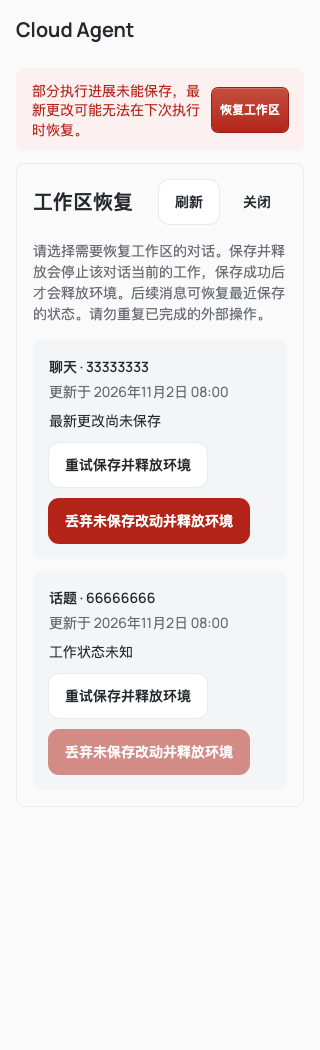
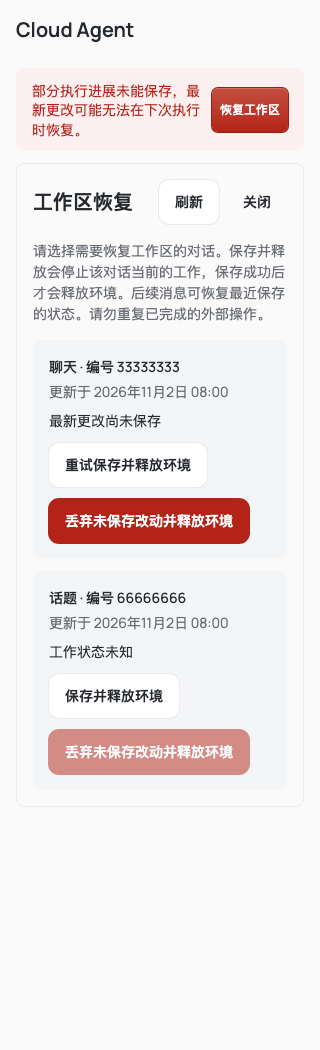
fix(web): confirm workspace interruptions and cover API contracts

Changed region(s): [[0.1875, 0.64, 0.5938, 0.6705], [0.25, 0.5486, 0.5938, 0.579], [0.25, 0.3352, 0.5625, 0.3657]]

diff --git a/apps/web/src/features/agents/cloud/cloud-workspace-recovery.test.tsx b/apps/web/src/features/agents/cloud/cloud-workspace-recovery.test.tsx
@@ -89,7 +89,7 @@ it("offers recovery without a release-failure marker and does not mutate on open
   expect(screen.queryByRole("region", { name: "Workspace recovery" })).toBeNull();
   fireEvent.click(await screen.findByRole("button", { name: "Recover workspace" }));
   await screen.findByRole("region", { name: "Workspace recovery" });
-  await screen.findByRole("button", { name: "Retry save and release" });
+  await screen.findByRole("button", { name: "Save and release" });
   expect(fixture.read).toHaveBeenCalledWith(AGENT, { limit: 20 });
   expect(fixture.readStatus).not.toHaveBeenCalled();
   expect(fixture.release).not.toHaveBeenCalled();
@@ -105,7 +105,7 @@ it("captures the allocation generation and accepts only one release while busy",
       }),
   );
   const item = await renderPanel();
-  const button = within(item).getByRole("button", { name: "Retry save and release" });
+  const button = within(item).getByRole("button", { name: "Save and release" });
   act(() => {
     fireEvent.click(button);
     fireEvent.click(button);
@@ -144,6 +144,27 @@ it("requires a second confirmation to discard and preserves the selected generat
   );
 });
 
+it.each(["running", "queued", "unknown"] as const)(
+  "confirms before saving and releasing a %s conversation",
+  async (taskState) => {
+    const fixture = setup([row({ taskState })]);
+    const item = await renderPanel();
+    const save = within(item).getByRole("button", { name: "Save and release" });
+    fireEvent.click(save);
+    let dialog = await screen.findByRole("alertdialog");
+    expect(dialog.textContent).toContain("interrupts its current execution");
+    expect(fixture.readStatus).not.toHaveBeenCalled();
+    expect(fixture.release).not.toHaveBeenCalled();
+    fireEvent.click(within(dialog).getByRole("button", { name: "Cancel" }));
+    await waitFor(() => expect(screen.queryByRole("alertdialog")).toBeNull());
+    expect(fixture.release).not.toHaveBeenCalled();
+    fireEvent.click(save);
+    dialog = await screen.findByRole("alertdialog");
+    fireEvent.click(within(dialog).getByRole("button", { name: "Save and release" }));
+    await waitFor(() => expect(fixture.release).toHaveBeenCalledExactlyOnceWith(SANDBOX, { environmentGeneration: 2 }));
+  },
+);
+
 it("refuses a replacement environment even when an old discard confirmation stays open", async () => {
   const fixture = setup([row({ lifecycle: "releasing", lastErrorCode: "workspace_save_failed", canDiscard: true })]);
   const item = await renderPanel();
@@ -161,15 +182,15 @@ it("reads back after an uncertain mutation and never automatically resends it", 
   const fixture = setup();
   fixture.release.mockRejectedValueOnce(new TypeError("private upstream detail"));
   const item = await renderPanel();
-  fireEvent.click(within(item).getByRole("button", { name: "Retry save and release" }));
+  fireEvent.click(within(item).getByRole("button", { name: "Save and release" }));
   await screen.findByText(/recovery result could not be confirmed/);
   await waitFor(() => expect(fixture.readStatus).toHaveBeenCalledTimes(2));
   expect(fixture.release).toHaveBeenCalledOnce();
   expect(document.body.textContent).not.toContain("private upstream detail");
   await waitFor(() =>
-    expect(within(item).getByRole("button", { name: "Retry save and release" })).toHaveProperty("disabled", false),
+    expect(within(item).getByRole("button", { name: "Save and release" })).toHaveProperty("disabled", false),
   );
-  fireEvent.click(within(item).getByRole("button", { name: "Retry save and release" }));
+  fireEvent.click(within(item).getByRole("button", { name: "Save and release" }));
   await waitFor(() => expect(fixture.release).toHaveBeenCalledTimes(2));
   expect(fixture.readStatus).toHaveBeenCalledTimes(3);
 });
@@ -178,7 +199,7 @@ it("does not mutate when the fresh allocation status cannot be read", async () =
   const fixture = setup();
   fixture.readStatus.mockRejectedValue(new Error("private status detail"));
   const item = await renderPanel();
-  fireEvent.click(within(item).getByRole("button", { name: "Retry save and release" }));
+  fireEvent.click(within(item).getByRole("button", { name: "Save and release" }));
   await screen.findByText(/Workspace status could not be read/);
   expect(fixture.release).not.toHaveBeenCalled();
   expect(document.body.textContent).not.toContain("private status detail");
@@ -189,7 +210,7 @@ it("reports unavailable status after an uncertain release without inventing succ
   fixture.readStatus.mockResolvedValueOnce(status()).mockRejectedValue(new Error("private readback"));
   fixture.release.mockRejectedValue(new Error("private timeout"));
   const item = await renderPanel();
-  fireEvent.click(within(item).getByRole("button", { name: "Retry save and release" }));
+  fireEvent.click(within(item).getByRole("button", { name: "Save and release" }));
   await screen.findByText(/result and current status could not be confirmed/);
   expect(fixture.release).toHaveBeenCalledOnce();
   expect(screen.queryByText("Environment released")).toBeNull();
@@ -205,7 +226,7 @@ it("does not treat a failed overview read as an empty workspace inventory", asyn
   await renderInRouter(<CloudWorkspaceRecovery agentId={AGENT} initialOpen />);
   await screen.findByText(/Workspace status could not be read/);
   expect(screen.queryByText("No conversation workspaces are available.")).toBeNull();
-  expect(screen.queryByRole("button", { name: "Retry save and release" })).toBeNull();
+  expect(screen.queryByRole("button", { name: "Save and release" })).toBeNull();
   expect(document.body.textContent).not.toContain("private inventory detail");
 });
 
@@ -231,21 +252,21 @@ it("loads later pages and honors the server's available actions", async () => {
   fireEvent.click(screen.getByRole("button", { name: "Load more conversations" }));
   const next = await screen.findByRole("listitem", { name: "Internal conversation · 55555555" });
   expect(fixture.read).toHaveBeenCalledWith(AGENT, { limit: 20, cursor: SESSION });
-  expect(within(next).getByRole("button", { name: "Retry save and release" })).toHaveProperty("disabled", true);
+  expect(within(next).getByRole("button", { name: "Save and release" })).toHaveProperty("disabled", true);
 });
 
 it("keeps a release in progress noninteractive", async () => {
   setup([row({ lifecycle: "releasing" })]);
   const item = await renderPanel();
   expect(within(item).getByText("Release in progress")).toBeTruthy();
-  expect(within(item).getByRole("button", { name: "Retry save and release" })).toHaveProperty("disabled", true);
+  expect(within(item).getByRole("button", { name: "Save and release" })).toHaveProperty("disabled", true);
 });
 
 it("does not submit another release for an already released allocation", async () => {
   const fixture = setup();
   fixture.readStatus.mockResolvedValue(status({ lifecycle: "unallocated", currentResourceName: null }));
   const item = await renderPanel();
-  fireEvent.click(within(item).getByRole("button", { name: "Retry save and release" }));
+  fireEvent.click(within(item).getByRole("button", { name: "Save and release" }));
   await screen.findByText("Environment released");
   expect(fixture.release).not.toHaveBeenCalled();
 });

diff --git a/apps/web/src/features/agents/cloud/cloud-workspace-recovery.tsx b/apps/web/src/features/agents/cloud/cloud-workspace-recovery.tsx
@@ -30,6 +30,7 @@ export function CloudWorkspaceRecovery({ agentId, initialOpen = false }: { agent
 }
 
 type Feedback = { error: boolean; text: string };
+type WorkspaceConfirmation = { target: CloudSessionSummary; discard: boolean };
 
 async function requestWorkspaceRelease(target: CloudSessionSummary, discardUnsavedChanges: boolean): Promise<Feedback> {
   const current = await browserApi.cloudWorkspaceStatus(target.sandboxId);
@@ -68,7 +69,7 @@ function WorkspaceRecoveryPanel({ agentId, onClose }: { agentId: string; onClose
   });
   const settledError = usePersistedSettledError(queryKey, query);
   const terminalError = settledError && isTerminalResourceError(settledError);
-  const [discard, setDiscard] = useState<CloudSessionSummary>();
+  const [confirmation, setConfirmation] = useState<WorkspaceConfirmation>();
   const [feedback, setFeedback] = useState<Feedback>();
   const [busy, setBusy] = useState(false);
   const active = useRef(false);
@@ -84,10 +85,18 @@ function WorkspaceRecoveryPanel({ agentId, onClose }: { agentId: string; onClose
       setFeedback({ error: true, text: m.cloud_recovery_read_failed() });
     } finally {
       await query.refetch();
-      setDiscard(undefined);
+      setConfirmation(undefined);
       setBusy(false);
       active.current = false;
     }
+  }
+
+  function save(target: CloudSessionSummary) {
+    if (target.taskState !== "idle") {
+      setConfirmation({ target, discard: false });
+      return;
+    }
+    void release(target);
   }
 
   const rows = terminalError ? [] : (query.data?.pages.flatMap((page) => page.sessions) ?? []);
@@ -125,8 +134,8 @@ function WorkspaceRecoveryPanel({ agentId, onClose }: { agentId: string; onClose
             key={`${row.sandboxId}:${row.environmentGeneration}`}
             row={row}
             disabled={!canAct}
-            onSave={() => void release(row)}
-            onDiscard={() => setDiscard(row)}
+            onSave={() => save(row)}
+            onDiscard={() => setConfirmation({ target: row, discard: true })}
           />
         ))}
       </ul>
@@ -141,12 +150,12 @@ function WorkspaceRecoveryPanel({ agentId, onClose }: { agentId: string; onClose
         </Button>
       ) : null}
       {busy ? <p role="status">{m.cloud_recovery_saving()}</p> : null}
-      {discard && !terminalError ? (
-        <DiscardWorkspaceDialog
-          target={discard}
+      {confirmation && !terminalError ? (
+        <WorkspaceReleaseDialog
+          confirmation={confirmation}
           busy={busy}
-          onClose={() => setDiscard(undefined)}
-          onConfirm={() => void release(discard, true)}
+          onClose={() => setConfirmation(undefined)}
+          onConfirm={() => void release(confirmation.target, confirmation.discard)}
         />
       ) : null}
     </section>
@@ -226,7 +235,7 @@ function WorkspaceRow({
       </div>
       <div className="flex flex-wrap gap-3">
         <Button size="compact" variant="secondary" disabled={disabled || !row.canRelease || pending} onClick={onSave}>
-          {m.cloud_recovery_save_release()}
+          {row.lastErrorCode === "workspace_save_failed" ? m.cloud_recovery_save_release() : m.cloud_recovery_save()}
         </Button>
         <Button size="compact" variant="danger" disabled={disabled || !row.canDiscard || pending} onClick={onDiscard}>
           {m.cloud_recovery_discard_release()}
@@ -236,13 +245,13 @@ function WorkspaceRow({
   );
 }
 
-function DiscardWorkspaceDialog({
-  target,
+function WorkspaceReleaseDialog({
+  confirmation,
   busy,
   onClose,
   onConfirm,
 }: {
-  target: CloudSessionSummary;
+  confirmation: WorkspaceConfirmation;
   busy: boolean;
   onClose: () => void;
   onConfirm: () => void;
@@ -250,8 +259,12 @@ function DiscardWorkspaceDialog({
   return (
     <Dialog
       busy={busy}
-      title={m.cloud_recovery_discard_title({ session: sessionLabel(target) })}
-      description={m.cloud_recovery_discard_description()}
+      title={
+        confirmation.discard
+          ? m.cloud_recovery_discard_title({ session: sessionLabel(confirmation.target) })
+          : m.cloud_recovery_save_title({ session: sessionLabel(confirmation.target) })
+      }
+      description={confirmation.discard ? m.cloud_recovery_discard_description() : m.cloud_recovery_save_description()}
       onClose={onClose}
       role="alertdialog"
     >
@@ -259,8 +272,8 @@ function DiscardWorkspaceDialog({
         <Button variant="ghost" disabled={busy} onClick={onClose}>
           {m.common_cancel()}
         </Button>
-        <Button variant="danger" disabled={busy} onClick={onConfirm}>
-          {m.cloud_recovery_discard_confirm()}
+        <Button variant={confirmation.discard ? "danger" : "secondary"} disabled={busy} onClick={onConfirm}>
+          {confirmation.discard ? m.cloud_recovery_discard_confirm() : m.cloud_recovery_save()}
         </Button>
       </div>
     </Dialog>

diff --git a/apps/web/src/api.csrf.test.ts b/apps/web/src/api.csrf.test.ts
@@ -105,6 +105,8 @@ const INVOCATIONS: Record<string, readonly unknown[]> = {
   cloudCreditCheckout: [{ amountCents: 1000, idempotencyKey: ID }],
   ensureCloudComputer: [],
   agentCloudOverview: [ID],
+  cloudWorkspaceStatus: [ID],
+  releaseCloudWorkspace: [ID, { environmentGeneration: 1 }],
   internalNavigationVisibility: [],
   updateInternalNavigationVisibility: [{ tasks: true }],
   updateTaskTitle: [ID, { title: "A task" }],

diff --git a/testing/web-ui/cloud-workspace-recovery/README.md b/testing/web-ui/cloud-workspace-recovery/README.md
@@ -8,8 +8,10 @@ allocation, deletion, storage, IM notification or external task action.
 English and Simplified Chinese each passed at 320, 390, 768 and 1440 pixels:
 
 - No page or discard-dialog horizontal overflow.
-- No axe WCAG A/AA violations in the panel or confirmation dialog.
+- No axe WCAG 2.0/2.1/2.2 A/AA violations in the panel or confirmation dialogs.
 - Discard opens a second confirmation; opening or cancelling it issues no mutation.
+- Save/release on a conversation with unknown work opens an interruption confirmation and
+  cancelling it issues no mutation; unit cases also cover running and queued work.
 - Escape closes the confirmation and restores keyboard focus to its original button.
 - The desktop network-failure fixture issues one stop request, reads current status and waits
   for another explicit click. A later successful request releases the fixture environment.
@@ -27,3 +29,4 @@ contract tests in `apps/web/src/__tests__/api-cloud-workspace.test.ts`.
 - [Desktop, English](en-1440.png)
 - [Minimum width, Simplified Chinese](zh-320.png)
 - [Discard confirmation, Simplified Chinese](zh-390-discard.png)
+- [Current-work interruption confirmation, Simplified Chinese](zh-390-save-confirm.png)

diff --git a/docs/system/web/web-ui-contract.md b/docs/system/web/web-ui-contract.md
@@ -120,7 +120,8 @@ Cloud Agent home keeps workspace recovery collapsed until explicitly opened or r
 offers only Server-authorized save/release or explicit discard/release. A captured environment
 generation stays fixed through confirmation and is checked again before the request. Busy actions
 cannot be repeated; failed or uncertain mutations cause status reads rather than automatic retries.
-Discard confirmation explains unsaved-file loss and that external effects are not undone. A
+Running, queued and unknown work also requires confirmation before save/release interrupts it;
+rows without a recorded save failure use a plain save/release label. Discard confirmation explains unsaved-file loss and that external effects are not undone. A
 failed inventory read never becomes an empty list, and revoked access hides cached resources.
 
 ## Layout and responsive acceptance

diff --git a/testing/verification/cloud-workspace-persistence.md b/testing/verification/cloud-workspace-persistence.md
@@ -26,7 +26,8 @@ violation from an incident without its original error or prove real GCS/native r
 - `cloud-workspace-recovery.test.tsx` checks access without a release-failure marker, generation
   capture, duplicate-click prevention, discard confirmation/cancellation, a replacement during
   confirmation, status-read failures, uncertain mutations without automatic resubmission,
-  pagination and revoked access.
+  pagination and revoked access. Running, queued and unknown work requires an interruption
+  confirmation before save/release.
 - `api-cloud-workspace.test.ts` checks the existing Account status/stop paths, exact generation and
   discard bodies, CSRF, denial and response deadlines without a second mutation.
 - [Browser evidence](../web-ui/cloud-workspace-recovery/README.md) covers responsive layout,

diff --git a/docs/product/cloud-computer.md b/docs/product/cloud-computer.md
@@ -78,6 +78,8 @@ The Cloud Agent page offers a collapsed **Recover workspace** panel. Its direct 
 state using the existing paginated Account overview. It remains available when a Turn checkpoint
 failure has no release-error marker. Opening it does not allocate, release or discard anything.
 **Retry save and release** stops current work, saves the workspace, then releases the environment.
+Rows without a recorded save failure use **Save and release** rather than implying a previous
+failure. Running, queued and unknown work requires confirmation that release interrupts execution.
 **Discard changes and release** is available only when the Server permits it and requires a second
 confirmation of permanent unsaved-file loss. Neither action replays a task or undoes external effects.
 
